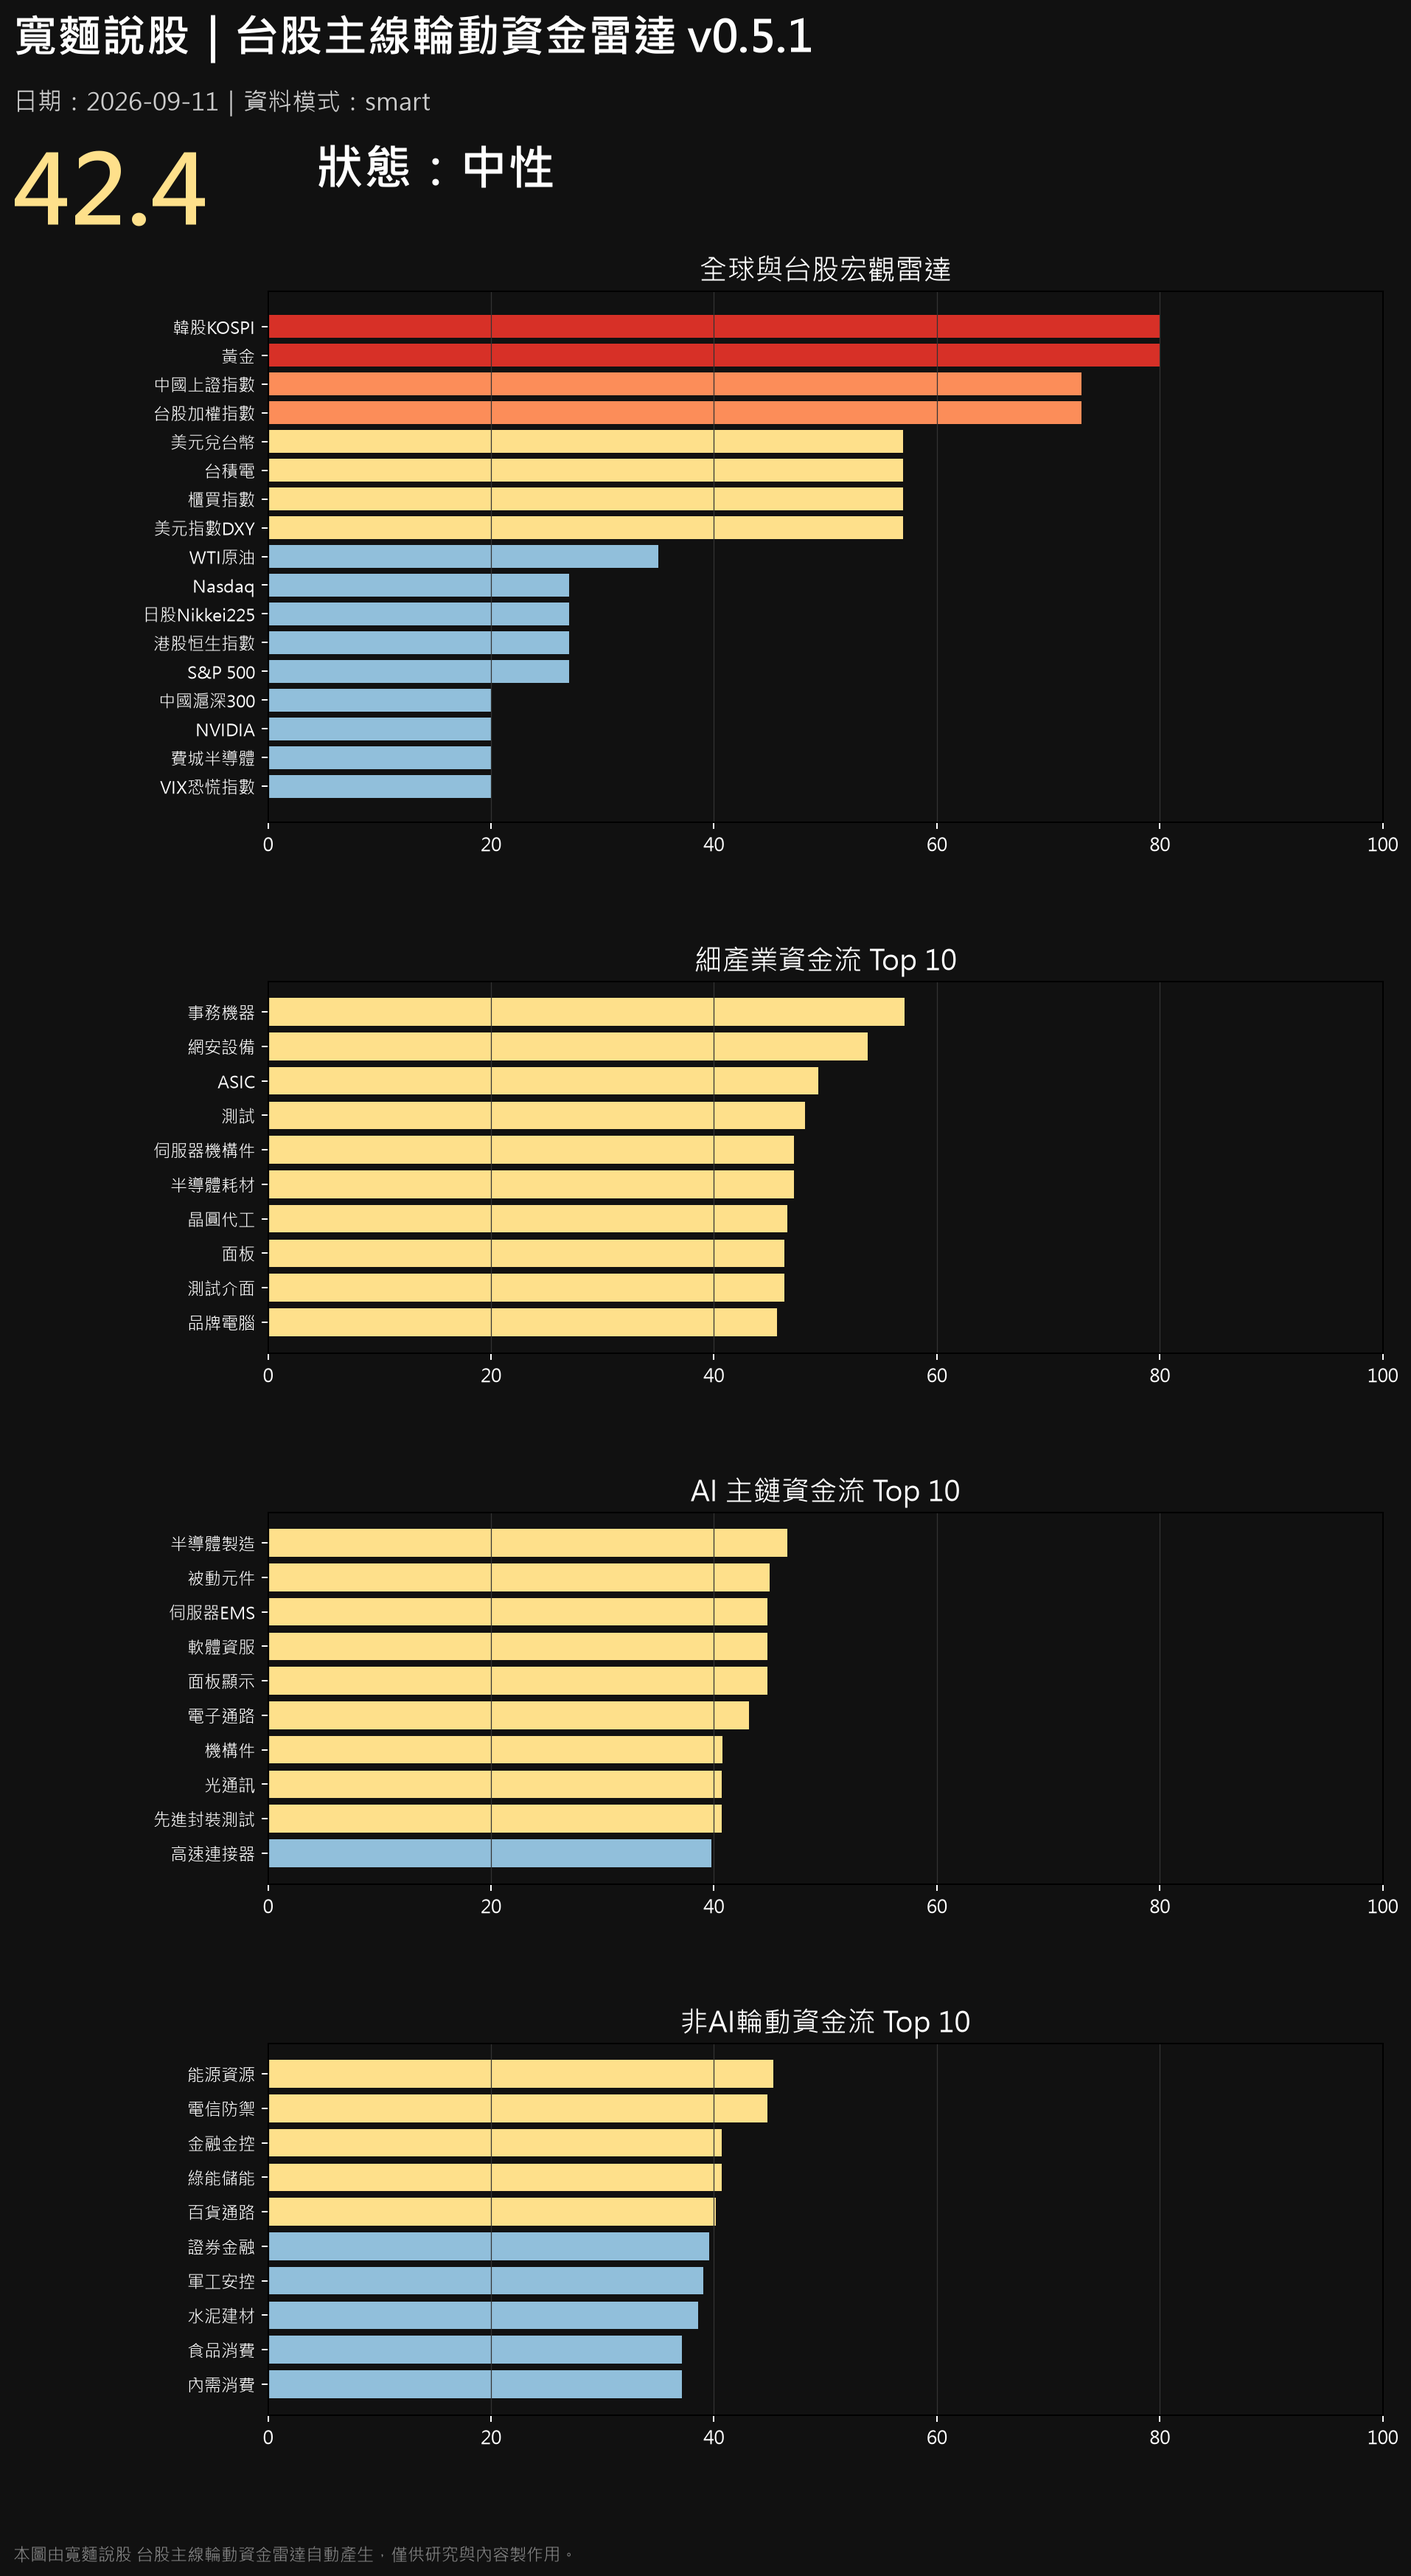
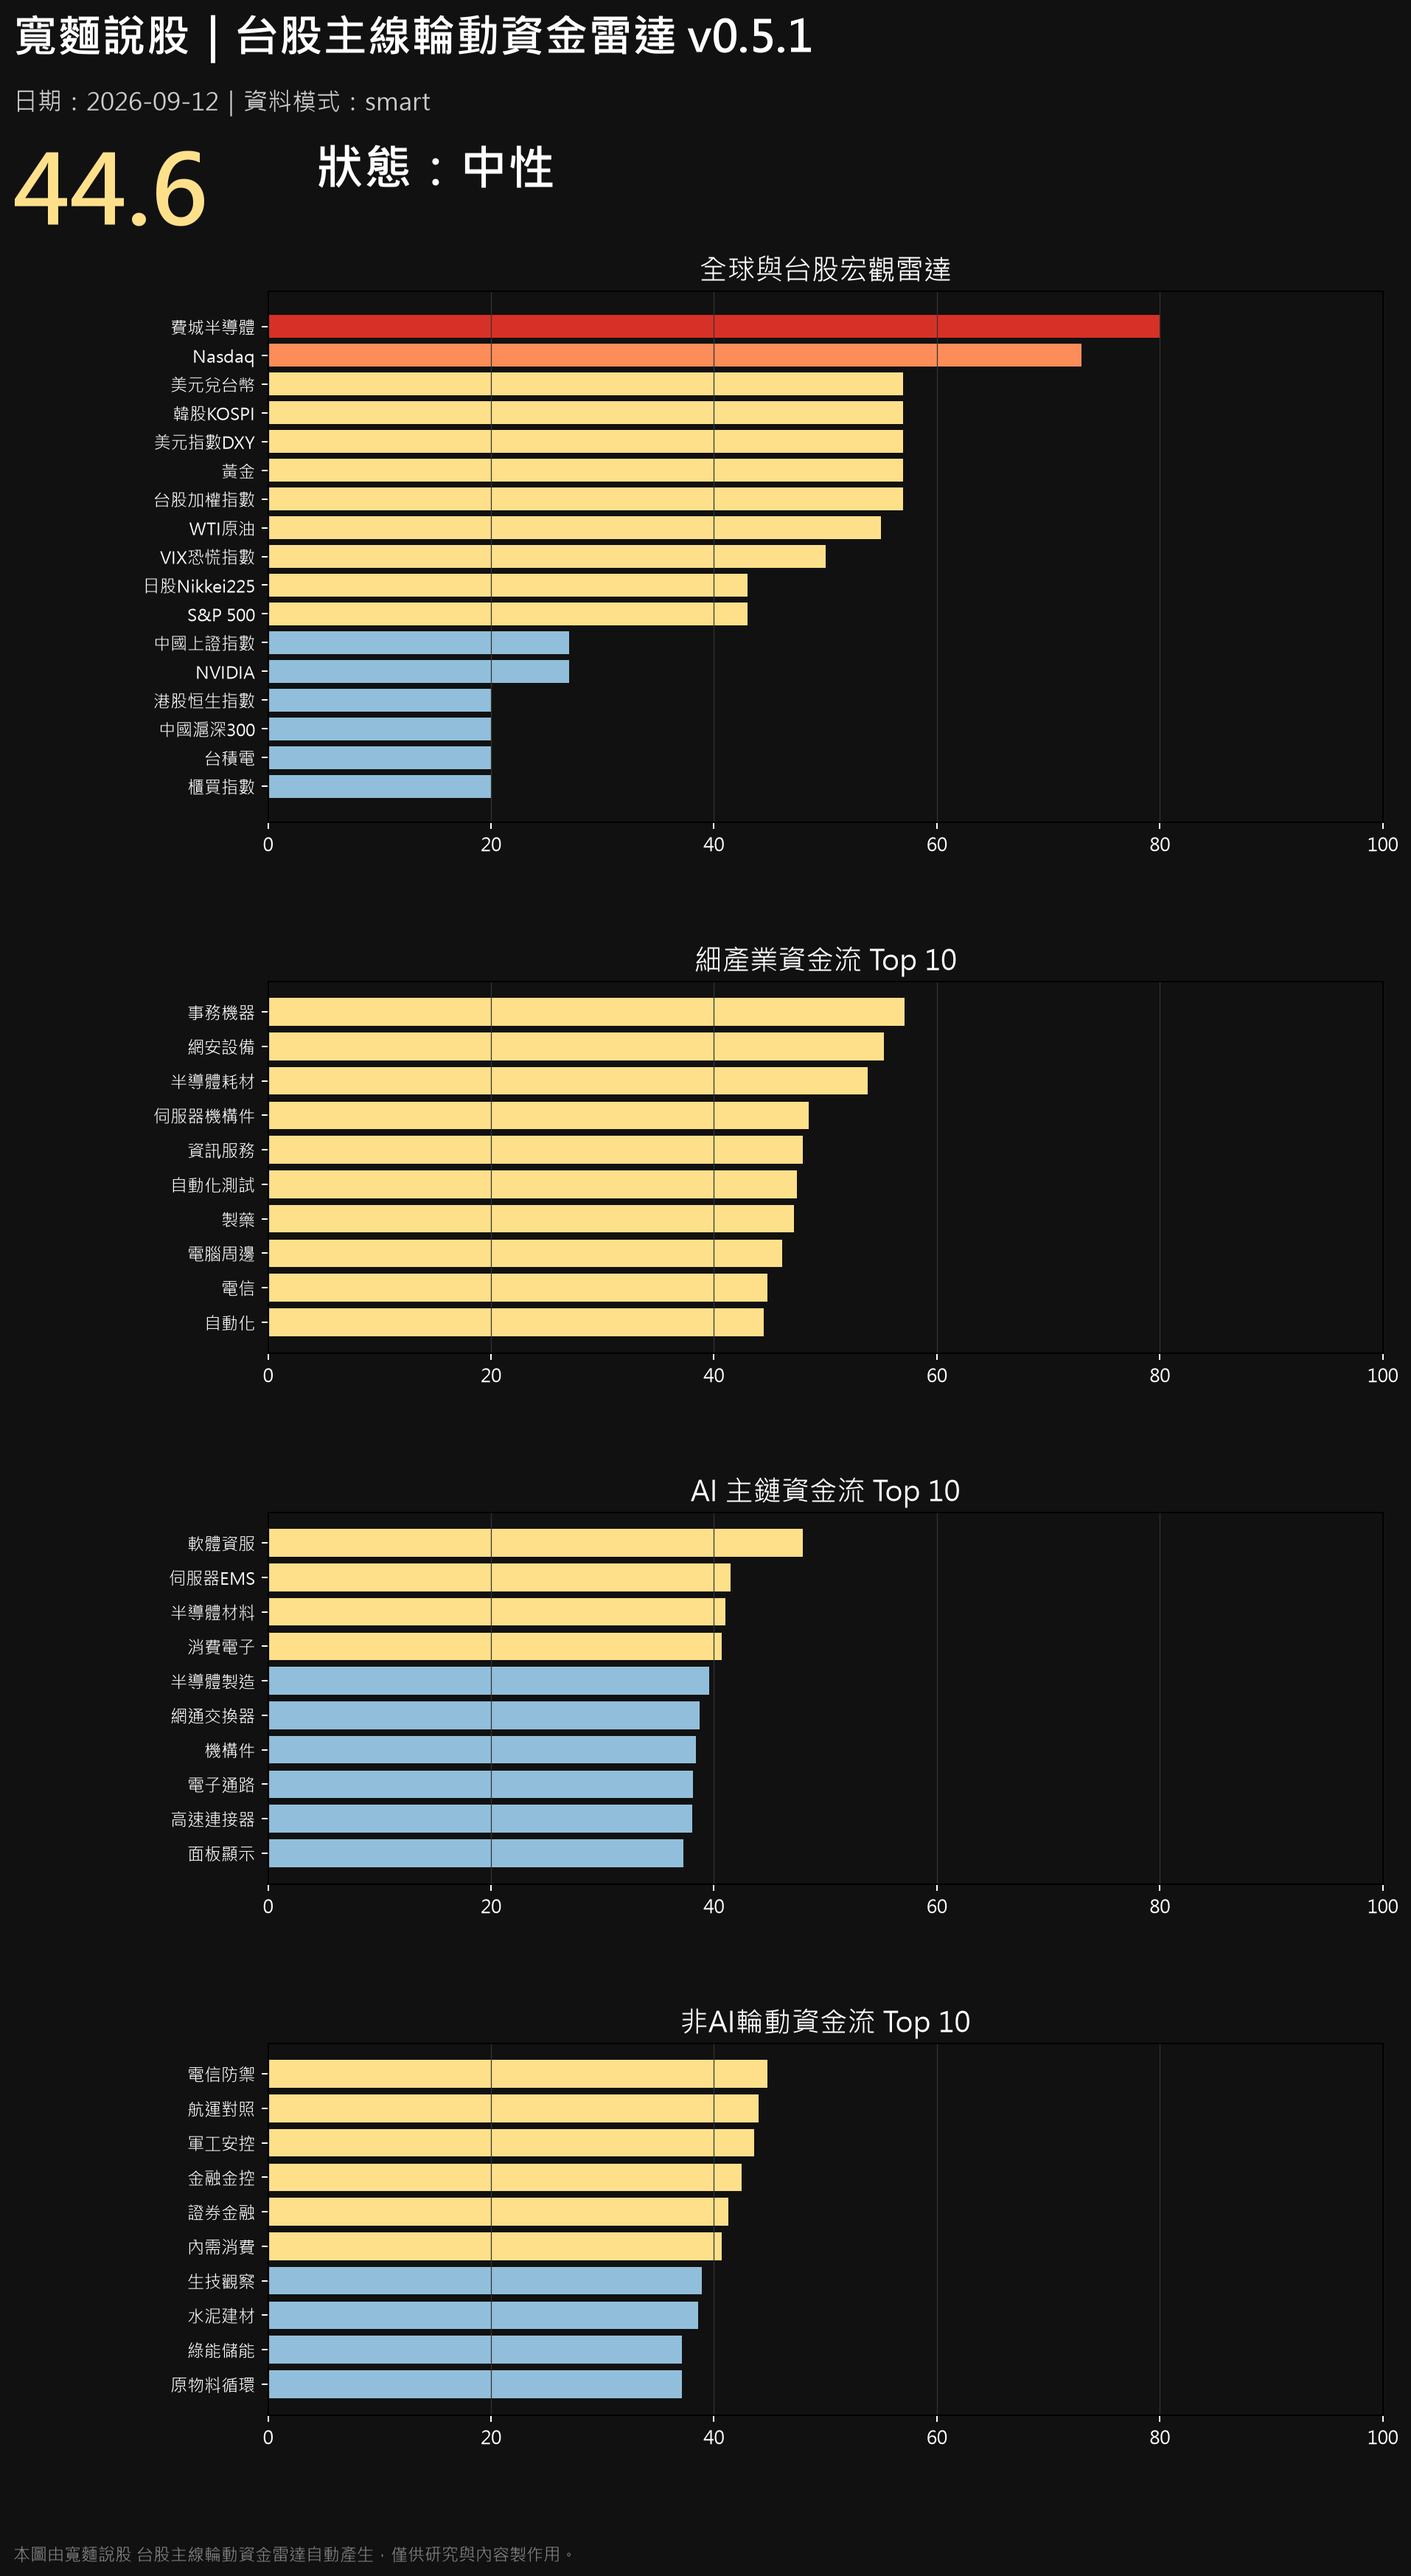
auto update radar chart 週六 2026/09/12  7:28:03.97

diff --git a/index.html b/index.html
@@ -122,7 +122,7 @@
     <section class="hero">
       <div class="brand">寬麵說股｜股海說書人</div>
       <h1>台股主線輪動資金雷達</h1>
-      <div class="updated">最後更新：2026-09-11 07:28:01</div>
+      <div class="updated">最後更新：2026-09-12 07:28:03</div>
       <div class="notice">
         每日追蹤 AI 主鏈、非AI輪動、宏觀風險與族群資金流。<br>
         本圖卡僅供研究與內容製作用，非投資建議。
@@ -130,11 +130,11 @@
     </section>
 
     <section class="dashboard-wrap">
-      <img class="dashboard" src="dashboard.png?v=20260911" alt="寬麵說股 台股主線輪動資金雷達">
+      <img class="dashboard" src="dashboard.png?v=20260912" alt="寬麵說股 台股主線輪動資金雷達">
     </section>
 
     <div class="actions">
-      <a class="btn" href="dashboard.png?v=20260911" target="_blank">開啟原圖</a>
+      <a class="btn" href="dashboard.png?v=20260912" target="_blank">開啟原圖</a>
     </div>
 
     <div class="footer">
